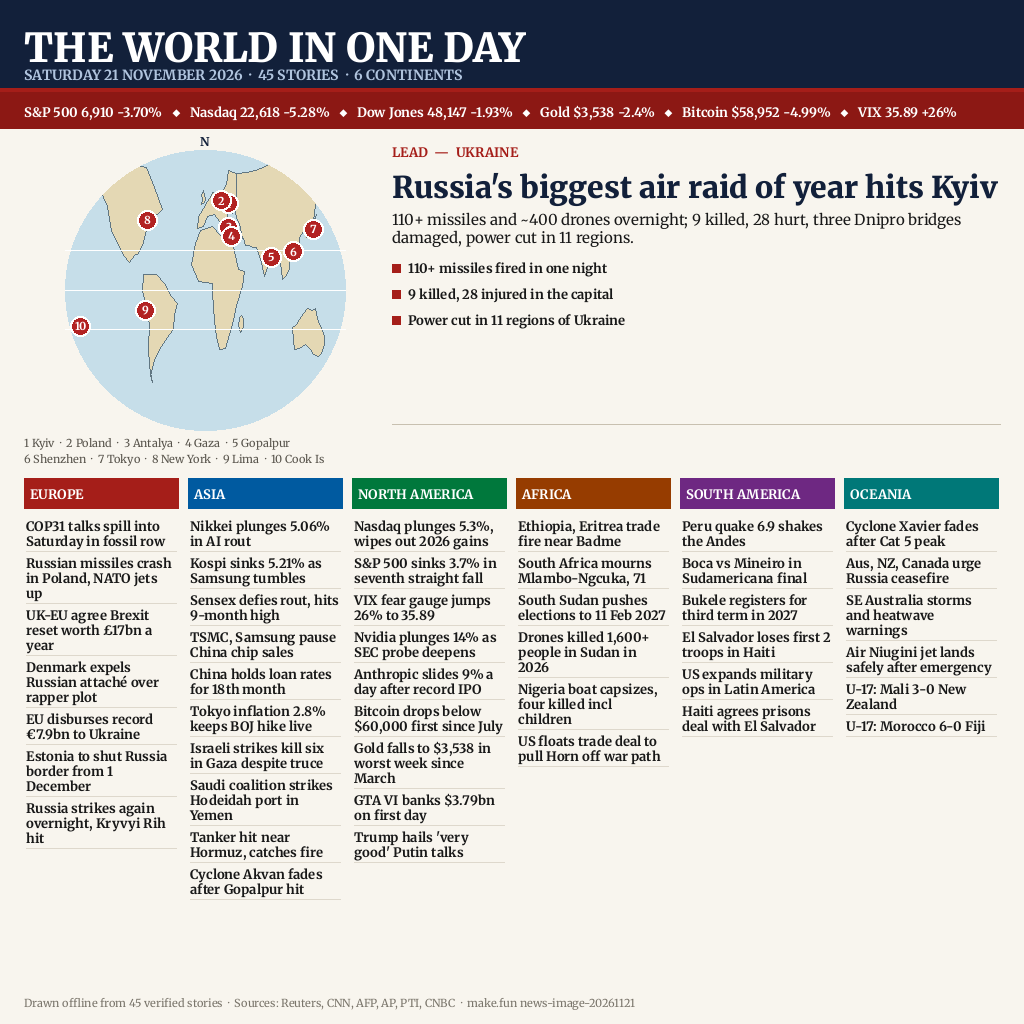
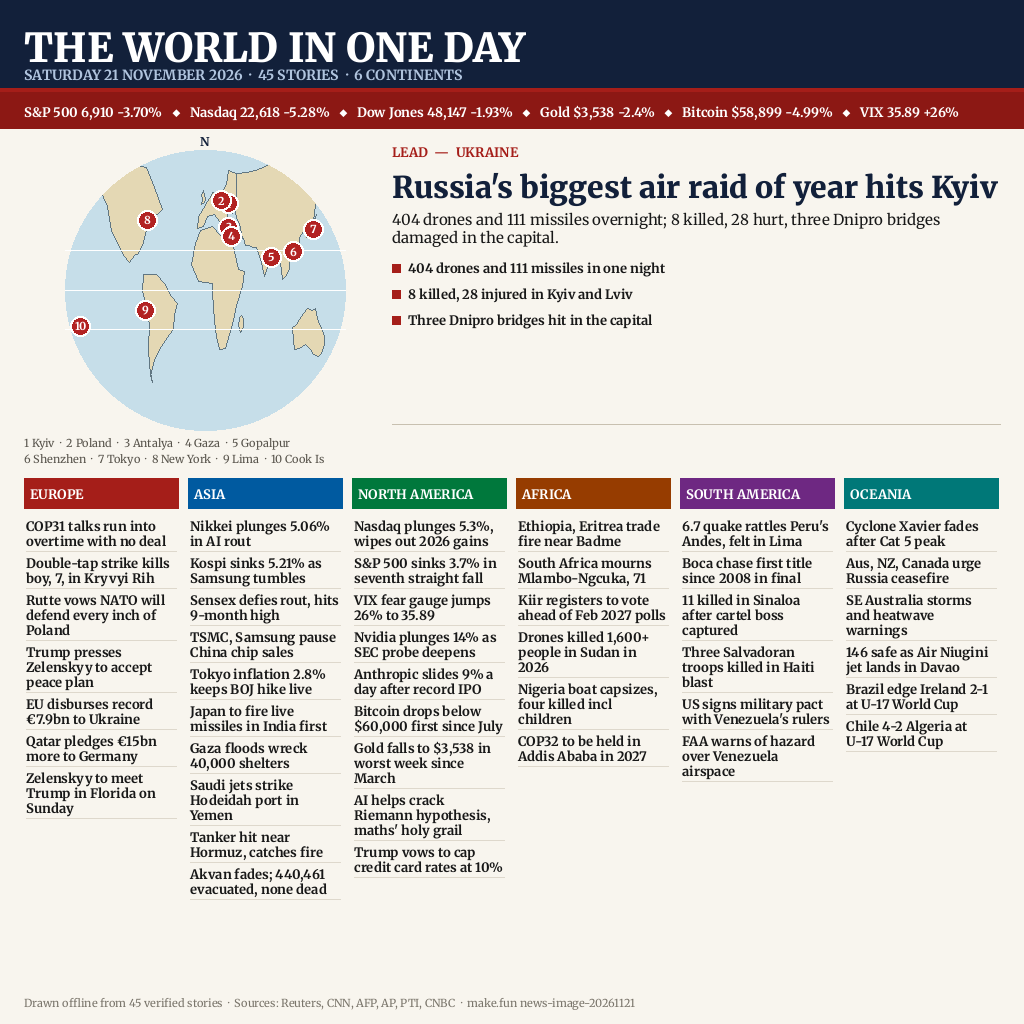
Finalize: full-day 21 Nov stories, Zenith final render

diff --git a/render.py b/render.py
@@ -236,9 +236,9 @@ def main():
                    typeface("black", 30), PAGE_W - hx - 24, NAVY, spacing=4)
     y = draw_lines(draw, hx, y + 8, data["lead"]["standfirst"],
                    typeface("regular", 15), PAGE_W - hx - 24, BODY, spacing=3)
-    facts = ["110+ missiles fired in one night",
-             "9 killed, 28 injured in the capital",
-             "Power cut in 11 regions of Ukraine"]
+    facts = ["404 drones and 111 missiles in one night",
+             "8 killed, 28 injured in Kyiv and Lviv",
+             "Three Dnipro bridges hit in the capital"]
     fy = y + 14
     for fact in facts:
         draw.rectangle([hx, fy + 4, hx + 8, fy + 12], fill=RULE_RED)

diff --git a/README.md b/README.md
@@ -44,10 +44,13 @@ python3 main.py     # write /output/entry.png (deterministic, no network)
 
 ## Status
 
-DRAFT (21 Nov 2026, ~16:45 WIB): repo and pipeline are ready; the draft
-image uses headlines from the morning of 21 Nov, while the news day is
-still running. The final image — full-day headlines, re-verified — is
-rendered on 22 Nov 2026. Deadline: 23 Nov 2026, 07:00 WIB.
+FINAL (22 Nov 2026, ~07:30 WIB): the full day of Sat 21 Nov 2026 is
+closed and every headline was re-verified against live sources before
+rendering. Lead: Russia's biggest air raid of the year on Kyiv (404
+drones, 111 missiles, 8 killed, 28 hurt). Market numbers are the
+Friday 20 Nov closes — Saturday markets are shut. Not yet submitted:
+submission needs the owner's explicit approval after he reviews the
+final image. Deadline: 23 Nov 2026, 07:00 WIB.
 
 ---
 
